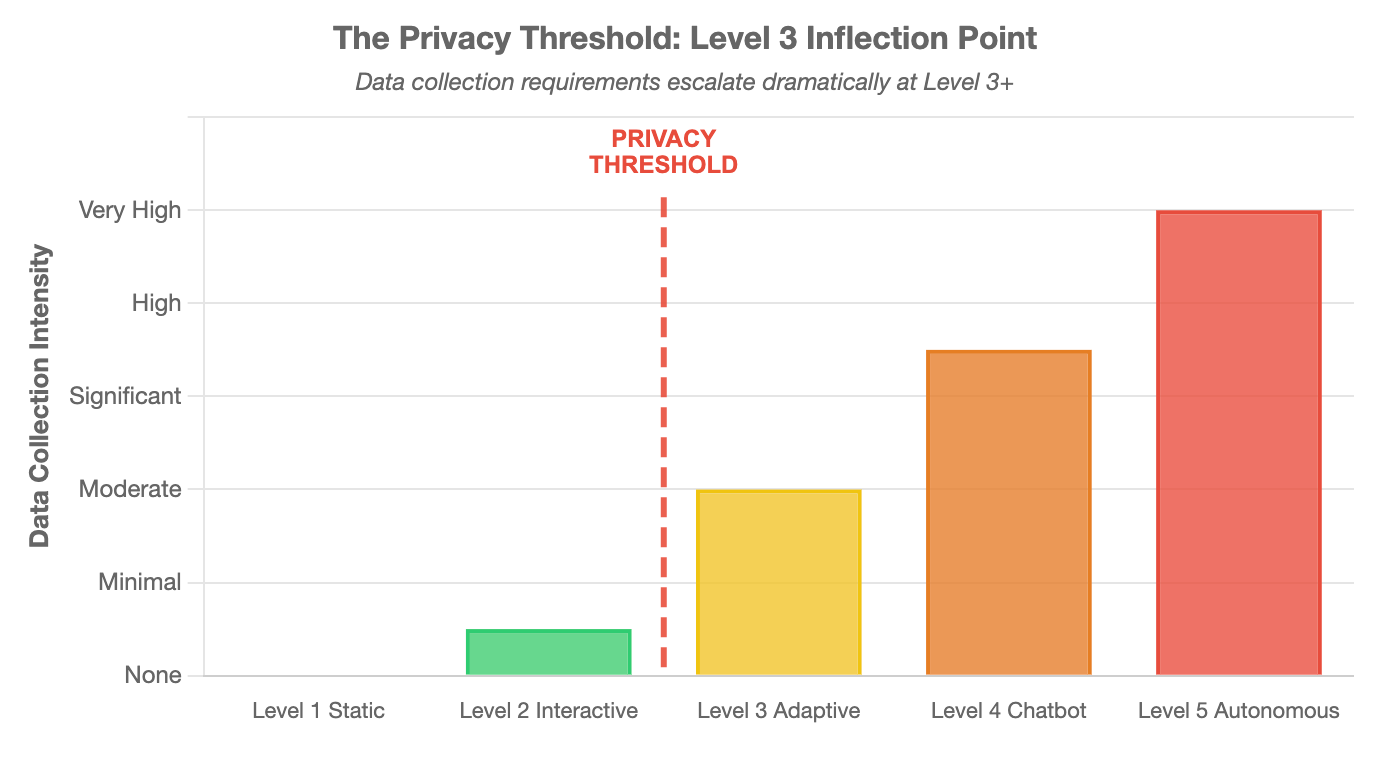
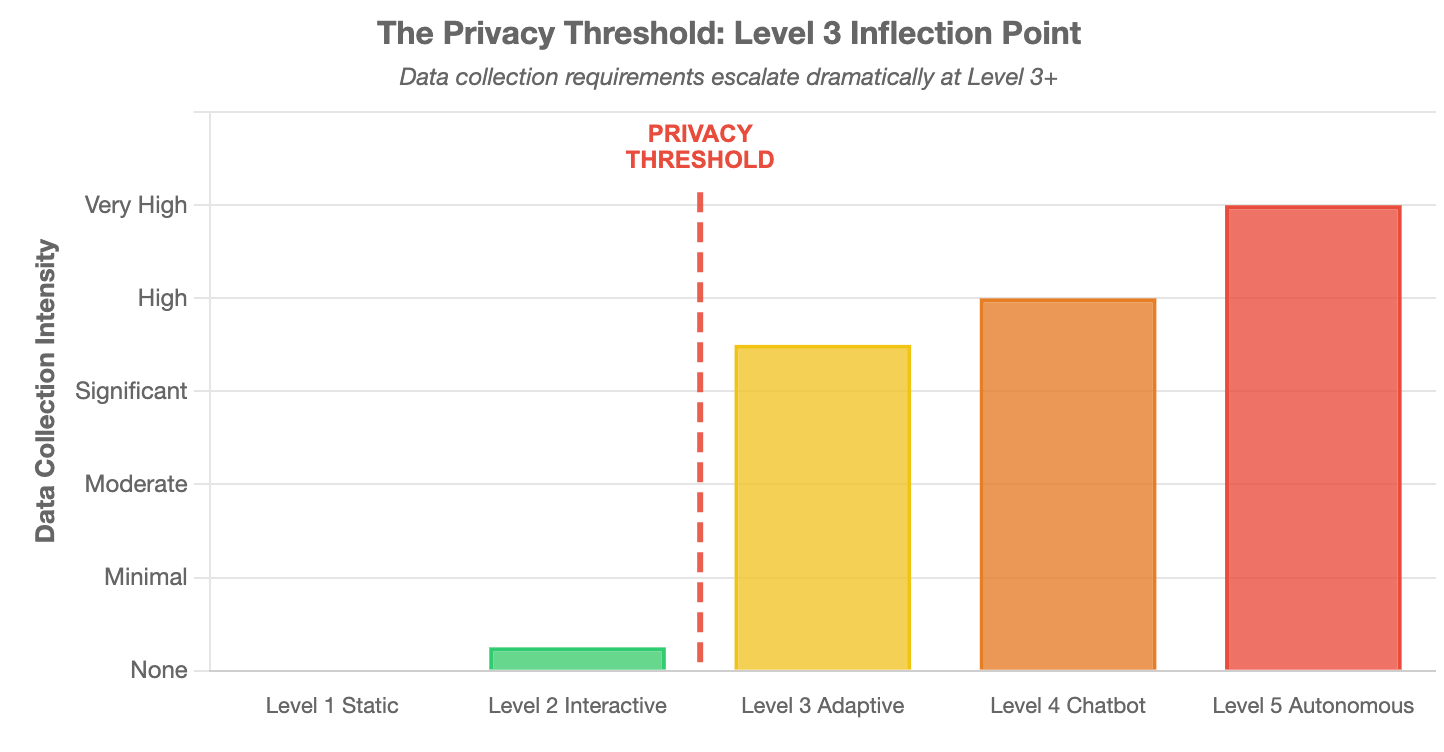
updating content

diff --git a/docs/sims/privacy-threshold-chart/privacy-threshold-chart.js b/docs/sims/privacy-threshold-chart/privacy-threshold-chart.js
@@ -10,7 +10,7 @@ const levels = [
     'Level 5\nAutonomous'
 ];
 
-const dataRequirements = [0, 1, 4, 7, 10]; // Relative data intensity
+const dataRequirements = [0, .5, 7, 8, 10]; // Relative data intensity
 
 // Descriptions shown in tooltips
 const descriptions = [

diff --git a/papers/five-levels/sections/09-implementation.tex b/papers/five-levels/sections/09-implementation.tex
@@ -12,6 +12,38 @@ Organizations need not progress sequentially through all five levels. Depending 
 
 \textbf{Domain-specific depth}: Achieving higher levels in specific subject areas while maintaining lower levels elsewhere, based on where adaptivity provides greatest benefit.
 
+\subsection{Precision in Level Terminology}
+
+One of the primary benefits of a standardized classification framework is enabling precise communication about capabilities and requirements. When discussing educational technology initiatives, stakeholders should use level designations with care and consistency.
+
+\textbf{Regulatory Clarity}: Precise level terminology streamlines governance discussions. For example: ``Since learning graphs are part of a Level 2 textbook, we don't need regulatory approval from the student privacy review board.'' This clarity accelerates decision-making and reduces unnecessary compliance overhead for lower-level implementations.
+
+\textbf{The Level 2.99 Frontier}: There remains substantial room for innovation at the boundary between Level 2 and Level 3---what we might informally call ``Level 2.99.'' Consider a textbook that incorporates:
+
+\begin{itemize}
+    \item \textbf{Knowledge graphs} storing concept dependencies and learning paths
+    \item \textbf{In-browser graph algorithms} that recommend personalized learning sequences based on student-declared goals
+    \item \textbf{Local storage} using browser-based mechanisms entirely controlled by each student
+\end{itemize}
+
+Such a system can provide sophisticated path recommendations without crossing the privacy threshold. The key distinction: these recommendations are computed locally, goals are not persistent across sessions (unless the student explicitly saves them), and no student-specific data resides on institutional servers.
+
+\textbf{Browser-Based Privacy Preservation}: Modern web technologies---including IndexedDB, localStorage, and client-side JavaScript---enable surprisingly capable learning systems that keep all personalization data under student control. A student's browser becomes their personal learning record store, exportable and deletable at will. This architecture sidesteps many regulatory concerns while still enabling meaningful personalization within a session.
+
+\textbf{The 2.99 to 3.01 Transition}: When students \textit{do} want persistent, cross-device learning histories---and many will, for legitimate educational benefit---the challenge becomes crossing from Level 2.99 to Level 3.01 without data loss. Students who have built up valuable learning records in browser storage need a seamless path to server-side persistence when they're ready.
+
+This transition requirement will drive a new industry of secure Software-as-a-Service Learning Record Store providers. These services must offer:
+
+\begin{itemize}
+    \item Easy import of browser-based learning records
+    \item Student-controlled data ownership and portability
+    \item Institutional integration without institutional ownership
+    \item Compliance with FERPA, COPPA, GDPR, and emerging state regulations
+    \item Clear data retention and deletion policies
+\end{itemize}
+
+The organizations that build trusted bridges across the 2.99/3.01 boundary---enabling students to ``graduate'' their learning data from local to cloud storage on their own terms---will occupy a strategically valuable position in the educational technology ecosystem.
+
 \subsection{Level 2 Implementation}
 
 Level 2 represents an accessible entry point with significant benefits and minimal risk:
@@ -20,6 +52,7 @@ Level 2 represents an accessible entry point with significant benefits and minim
 \begin{itemize}
     \item Static site generators (MkDocs, Hugo, Jekyll)
     \item JavaScript simulation libraries (p5.js, D3.js)
+    \item Learning graph visualization (vis.js, D3.js, Cytoscape.js)
     \item Embedded video platforms
     \item Optional analytics (privacy-respecting options like Plausible)
 \end{itemize}
@@ -37,7 +70,7 @@ Level 3 requires significant infrastructure investment:
     \item Learning Management System with adaptive capabilities
     \item Student authentication and identity management
     \item Learning Record Store (xAPI-compatible)
-    \item Graph database for concept relationships
+    \item Learning graphs (available from Level 2) with server-side traversal algorithms
     \item Assessment engine with item banking
 \end{itemize}
 

diff --git a/papers/five-levels/sections/10-discussion.tex b/papers/five-levels/sections/10-discussion.tex
@@ -14,16 +14,25 @@ Our five-level framework, like all classification systems, involves simplificati
 
 \subsection{Relationship to Learning Graphs}
 
-Our framework is closely related to the concept of learning graphs---structured representations of concept dependencies that enable adaptive navigation through educational content.
+Our framework is closely related to the concept of learning graphs---structured representations of concept dependencies that enable navigation through educational content.
 
-Learning graphs become essential at Level 3 and above:
+Learning graphs are a fundamental component of Level 2 intelligent textbooks. At this level, learning graphs serve as static knowledge structures that:
 \begin{itemize}
-    \item Level 3 systems use learning graphs to sequence content and enforce prerequisites
-    \item Level 4 systems use learning graphs to ground chatbot responses in verified concept relationships
-    \item Level 5 systems would use learning graphs as the knowledge backbone for autonomous tutoring
+    \item Define prerequisite relationships between concepts
+    \item Enable students to visualize the overall course structure
+    \item Support non-linear navigation based on student interests
+    \item Provide context for where each concept fits in the broader curriculum
 \end{itemize}
 
-The quality of the learning graph significantly impacts the effectiveness of higher-level systems. Poorly structured graphs lead to suboptimal learning paths regardless of algorithmic sophistication.
+The key distinction is that at Level 2, learning graphs inform \textit{student-directed} exploration, while at Level 3 and above, they enable \textit{system-directed} adaptation:
+\begin{itemize}
+    \item \textbf{Level 2}: Learning graphs help students choose their own path; the system does not track which path was taken
+    \item \textbf{Level 3}: Systems use learning graphs combined with individual performance data to sequence content and enforce prerequisites automatically
+    \item \textbf{Level 4}: Systems use learning graphs to ground chatbot responses in verified concept relationships
+    \item \textbf{Level 5}: Systems use learning graphs as the knowledge backbone for autonomous tutoring
+\end{itemize}
+
+The quality of the learning graph significantly impacts effectiveness at all levels. At Level 2, a well-structured graph helps students understand concept relationships; at Level 3+, it determines the quality of adaptive pathways. Poorly structured graphs lead to confusion at Level 2 and suboptimal learning paths at higher levels.
 
 \subsection{The Role of Human Instructors}
 

diff --git a/papers/five-levels/sections/01-abstract.tex b/papers/five-levels/sections/01-abstract.tex
@@ -1,15 +1,11 @@
 \begin{abstract}
-The rapid advancement of artificial intelligence is transforming educational content delivery, yet the field lacks a standardized framework for classifying intelligent textbook capabilities. This paper proposes a five-level classification system for intelligent textbooks, drawing inspiration from the Society of Automotive Engineers' J3016 standard for autonomous vehicles---a framework that successfully enabled clear communication, graduated regulation, and realistic expectation-setting across an industry undergoing rapid technological change.
+The rapid advancement of artificial intelligence is transforming educational content, yet the field lacks a standardized framework for classifying intelligent textbook capabilities. Inspired by automotive industry standards for autonomous vehicles, we propose a five-level classification: (1) Static textbooks; (2) Interactive textbooks with multimedia and assessments; (3) Adaptive textbooks that adjust to individual performance; (4) Chatbot-integrated textbooks using large language models; and (5) Autonomous AI textbooks with comprehensive real-time personalization.
 
-We define five levels of textbook intelligence: (1) Static textbooks with fixed content and no interactivity; (2) Interactive textbooks incorporating multimedia, hyperlinks, and basic assessments; (3) Adaptive textbooks that dynamically adjust content based on individual learner performance; (4) Chatbot-integrated textbooks employing large language models for conversational tutoring; and (5) Autonomous AI textbooks capable of comprehensive, real-time personalization across all learning contexts.
+Evidence from METR research shows AI task capabilities doubling every seven months. Extrapolating to 2030, the cost of producing Level 2 content approaches zero---pennies per student per day. This commoditization challenges publishers whose value rests on content production alone.
 
-We present empirical evidence from METR (Model Evaluation and Threat Research) demonstrating that AI task completion capabilities are doubling approximately every seven months. Extrapolating this trend to 2030 reveals that the cost of producing Level 2 interactive textbooks will approach zero---potentially pennies per student per day. This commoditization of content creation represents an existential challenge for educational publishers and institutions whose value proposition rests on content production alone.
+A critical finding is the identification of Level 3 as a privacy inflection point. Below this threshold, textbooks require minimal student data. At Level 3 and above, systems require detailed learning histories and behavioral patterns, raising concerns under FERPA, COPPA, and GDPR. We argue this threshold demands differentiated governance, with higher levels requiring stronger privacy protections. Educational standards including xAPI and Learning Record Stores can enable both personalization and student-controlled data portability.
 
-A critical finding of our analysis is the identification of Level 3 as a privacy inflection point. Below this threshold, textbooks require minimal student data. At Level 3 and above, systems necessitate increasingly detailed individual learning histories, conversation logs, and behavioral patterns---raising significant concerns under FERPA, COPPA, and GDPR regulations. We argue that this threshold demands differentiated governance frameworks, with higher levels requiring proportionally stronger privacy protections, algorithmic bias auditing, and institutional data stewardship. We further examine how existing educational technology standards---including IEEE learning technology specifications, the Experience API (xAPI), and Learning Record Stores (LRS)---can provide interoperability foundations for Level 3+ systems while enabling portable, student-controlled learning records that support both personalization and privacy.
-
-The strategic implication is clear: as Level 1--2 content becomes freely available, educational organizations must focus on Level 3 and above to remain viable---building the data infrastructure, trust relationships, and integration capabilities that AI alone cannot provide.
-
-Our framework provides educators, administrators, publishers, and policymakers with a common vocabulary for evaluating intelligent textbook products, establishing appropriate procurement criteria, and developing level-specific regulatory guidelines. As AI capabilities continue their exponential growth, such standardization becomes essential for responsible innovation in educational technology.
+The strategic implication: as Level 1--2 content becomes freely available, educational organizations must focus on Level 3+ capabilities to remain viable. Our framework provides a common vocabulary for evaluating products, establishing procurement criteria, and developing level-specific regulations.
 \end{abstract}
 
 \textbf{Keywords:} intelligent textbooks, educational technology, artificial intelligence, adaptive learning, privacy, classification framework, autonomous systems, large language models, xAPI, Learning Record Store, METR, exponential growth

diff --git a/papers/five-levels/sections/06-five-levels.tex b/papers/five-levels/sections/06-five-levels.tex
@@ -36,6 +36,7 @@ We propose a five-level classification framework for intelligent textbooks, rang
     \item Embedded videos and multimedia content
     \item Simple self-assessment quizzes with immediate feedback
     \item Interactive simulations (MicroSims) for concept visualization
+    \item Learning graphs showing concept dependencies and prerequisites
     \item Detailed glossary with contextual linking
     \item Social sharing capabilities
     \item Optional anonymous usage analytics
@@ -54,7 +55,7 @@ We propose a five-level classification framework for intelligent textbooks, rang
 \textbf{Characteristics}:
 \begin{itemize}
     \item Personalized learning pathways through deterministic rules
-    \item Concept graph traversal algorithms for content sequencing
+    \item Algorithmic traversal of learning graphs (present at Level 2) combined with individual performance data
     \item Selection of content based on assessment performance
     \item Spaced repetition for knowledge reinforcement
     \item Continuous recording of concept mastery

diff --git a/papers/five-levels/main.tex b/papers/five-levels/main.tex
@@ -31,7 +31,7 @@
     \texttt{https://www.linkedin.com/in/danmccreary/}
 }
 
-\date{Version 0.01 \\ \today}
+\date{Version 0.03 \\ \today}
 
 \begin{document}
 

diff --git a/papers/five-levels/sections/02-introduction.tex b/papers/five-levels/sections/02-introduction.tex
@@ -6,6 +6,8 @@ The problem is not merely semantic. Without clear classification, educators cann
 
 This paper proposes a solution: a five-level classification framework for intelligent textbooks, modeled on the successful SAE J3016 standard for autonomous vehicles. Just as that framework transformed discourse around self-driving cars---enabling clear communication between manufacturers, regulators, and consumers---we argue that a similar framework can bring much-needed clarity to the educational technology landscape.
 
+The genesis of this framework was a blog post written to initiate discussion within the educational technology community~\cite{mccreary2024fivelevels}. The response was substantial: dozens of educators, technologists, and policymakers provided valuable feedback that has shaped and refined the framework presented here. This paper represents the synthesis of those conversations, formalized for broader academic discourse.
+
 Our framework is motivated by three converging trends:
 
 \begin{enumerate}

diff --git a/docs/sims/privacy-threshold-chart/index.md b/docs/sims/privacy-threshold-chart/index.md
@@ -16,13 +16,23 @@ This chart illustrates the critical privacy inflection point at Level 3 intellig
 Below Level 3, intelligent textbooks can function with minimal or no student-specific data:
 
 - **Level 1 (Static)**: No data collection
-- **Level 2 (Interactive)**: Anonymous usage analytics only
+- **Level 2 (Interactive)**: Anonymous usage analytics only.  
+Example: Web analytics logging such as how many users visited what pages
+and when they accessed the pages.  Minimal tracking of return visitors
+using web browser cookies.  Users can indicate what concepts they
+have mastered and a learning graph running in the browser can
+recommend the next concepts and content to learn.
 
 At Level 3 and above, personalization requires detailed individual tracking:
 
 - **Level 3 (Adaptive)**: Individual learning histories, performance data
-- **Level 4 (Chatbot)**: Conversation logs, question patterns
+Quiz and assessment results, prediction of next concepts, customization
+of learning path based on prior mastery of skills such as understanding
+an explanation using mathematical equations.
+- **Level 4 (Chatbot)**: Conversation logs, question patterns,
+intent matching.
 - **Level 5 (Autonomous)**: Comprehensive cognitive profiles
+including student fatigue, needed repetition levels for fact memorization.
 
 ## Regulatory Implications
 